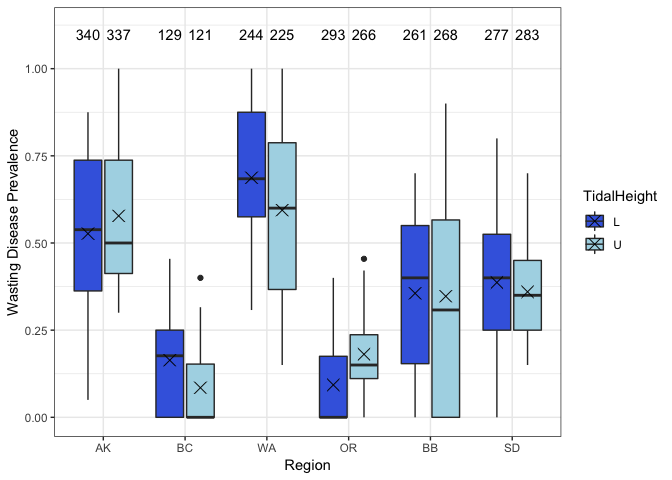
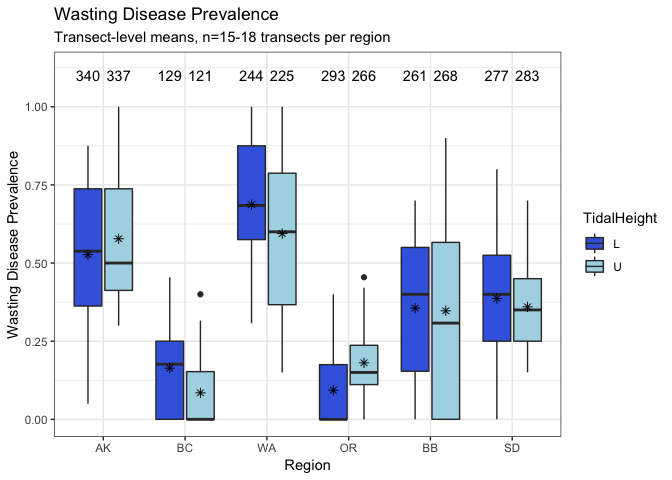
Changed site level figures to show points instead of boxplots

diff --git a/DiseaseDataExploration.md b/DiseaseDataExploration.md
@@ -35,7 +35,7 @@ analysis.
 
 This plot shows the distributions of transect-level prevalence by tidal
 height in each region. The black bar in the box-plot indicates the
-median prevalence, the X indicates the mean. Numbers at the top of the
+median prevalence, the \* indicates the mean. Numbers at the top of the
 plot indicate the number of EELISA measurements at each site. Note that
 the total number of shoots per tidal height should be 300 for BC, WA,
 OR, and SD and 360 for AK and BB. More measurements will be added when
@@ -51,7 +51,7 @@ below 25%. A lot of variability, especially in BB.
 
 Similar to above, this plot shows transect-level severity by tidal
 height within region. The black bar in the box-plot indicates the median
-prevalence, the X indicates the mean. Numbers at the top of the plot
+prevalence, the \* indicates the mean. Numbers at the top of the plot
 indicate the number of EELISA measurements for each site. Note that the
 total number of shoots per tidal height should be 300 for BC, WA, OR,
 and SD and 360 for AK and BB. More measurements will be added when the
